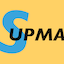
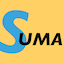
rename to SUMA

Changed region(s): [[0.125, 0.4375, 1.0, 0.7188]]

diff --git a/public/app.js b/public/app.js
@@ -6,7 +6,7 @@ async function docReady() {
 }
 
 async function getCategory(id) {
-  const response = await fetch("/supma/get/" + parseInt(id));
+  const response = await fetch("/suma/get/" + parseInt(id));
 
   if (response.status === 200) {
     const data = await response.json();
@@ -23,7 +23,7 @@ async function getCategory(id) {
 }
 
 async function updateCategoryList() {
-  const response = await fetch("/supma/list");
+  const response = await fetch("/suma/list");
   if (response.status === 200) {
     const data = await response.json();
     document.getElementById('category_list').outerHTML = data.html;
@@ -37,7 +37,7 @@ async function updateProductList(products) {
   const prodlist = document.getElementById("prodlist");
   prodlist.innerHTML = "";
   for (let product of products) {
-    const response = await fetch("/supma/head/" + product.id);
+    const response = await fetch("/suma/head/" + product.id);
 
     if (response.status === 200) {
       const data = await response.json();
@@ -55,7 +55,7 @@ async function toggleDetails(id) {
   if (details) {
     prod.removeChild(details);
   } else {
-    const url = "/supma/details/" + id;
+    const url = "/suma/details/" + id;
     const response = await fetch(url);
 
     if (response.status === 200) {
@@ -84,7 +84,7 @@ function toggleEdit(id) {
 async function renameCategory() {
   const catName = document.getElementById("edit_category_name").value;
   if (catName && catName.trim().length != 0) {
-    const response = await fetch("/supma/cat/" + encodeURIComponent(catName.trim()) + "/" + document.getElementById('category_id').value);
+    const response = await fetch("/suma/cat/" + encodeURIComponent(catName.trim()) + "/" + document.getElementById('category_id').value);
 
     if (response.status === 200) {
       const data = await response.json();
@@ -103,7 +103,7 @@ async function renameCategory() {
 async function createCategory() {
   const catName = document.getElementById("new_category_name").value;
   if (catName && catName.trim().length != 0) {
-    const response = await fetch("/supma/cat/" + encodeURIComponent(catName.trim()));
+    const response = await fetch("/suma/cat/" + encodeURIComponent(catName.trim()));
 
     if (response.status === 200) {
       const data = await response.json();
@@ -122,7 +122,7 @@ async function createCategory() {
 async function deleteCategory() {
   if (!document.getElementsByClassName('prod')[0]) {
     const id = document.getElementById('category_id').value;
-    const response = await fetch("/supma/cat/del/" + id);
+    const response = await fetch("/suma/cat/del/" + id);
 
     if (response.status === 200) {
       const data = await response.json();
@@ -143,7 +143,7 @@ async function deleteCategory() {
 }
 
 async function toggleCategoryPrio() {
-  const response = await fetch("/supma/cat/star/" + document.getElementById('category_id').value);
+  const response = await fetch("/suma/cat/star/" + document.getElementById('category_id').value);
 
   if (response.status === 200) {
     const data = await response.json();
@@ -161,7 +161,7 @@ async function toggleCategoryPrio() {
 async function renameProduct(id) {
   const prodName = document.getElementById("edit_product_name").value;
   if (prodName && prodName.trim().length != 0) {
-    const response = await fetch("/supma/pro/" + document.getElementById("category_id").value + "/" + encodeURIComponent(prodName.trim()) + "/" + id);
+    const response = await fetch("/suma/pro/" + document.getElementById("category_id").value + "/" + encodeURIComponent(prodName.trim()) + "/" + id);
 
     if (response.status === 200) {
       const data = await response.json();
@@ -178,7 +178,7 @@ async function renameProduct(id) {
 async function createProduct() {
   const prodName = document.getElementById("new_product_name").value;
   if (prodName && prodName.trim().length !== 0) {
-    const response = await fetch("/supma/pro/" + document.getElementById("category_id").value + "/" + encodeURIComponent(prodName.trim()));
+    const response = await fetch("/suma/pro/" + document.getElementById("category_id").value + "/" + encodeURIComponent(prodName.trim()));
 
     if (response.status === 200) {
       const data = await response.json();
@@ -197,7 +197,7 @@ async function createProduct() {
 async function deleteProduct(id) {
   const prodName = document.getElementById("product_name" + id).innerHTML;
   if (confirm('"' + prodName + '" löschen?')) {
-    const response = await fetch("/supma/pro/del/" + id);
+    const response = await fetch("/suma/pro/del/" + id);
 
     if (response.status === 200) {
       const prodlist = document.getElementById("prodlist");
@@ -232,7 +232,7 @@ async function updateEntry(id, action) {
   }
   if (action === "sub") count *= -1;
 
-  const response = await fetch("/supma/upd/", {
+  const response = await fetch("/suma/upd/", {
     method: "POST",
     headers: { "Content-Type": "application/json" },
     body: JSON.stringify({ "id": id, "year": year, "month": month, "count": count })

diff --git a/suma/model.js b/suma/model.js
@@ -3,17 +3,17 @@ import { DatabaseSync } from 'node:sqlite';
 import fs from 'fs-extra';
 import { logger } from '../log.js'
 
-const SUPMA_DB = process.env.SUPMA_DB;
+const SUMA_DB = process.env.SUMA_DB;
 let database;
 
-fs.pathExists(SUPMA_DB, (err, exists) => {
-  database = new DatabaseSync(SUPMA_DB, { open: true });
+fs.pathExists(SUMA_DB, (err, exists) => {
+  database = new DatabaseSync(SUMA_DB, { open: true });
   if (exists) {
     if (!database) {
-      logger.info('Could not connect to SUPMA database at "' + SUPMA_DB + '".');
+      logger.info('Could not connect to SUMA database at "' + SUMA_DB + '".');
       process.exit(1);
     } else {
-      logger.info('Connected to SUPMA database at "' + SUPMA_DB + '".');
+      logger.info('Connected to SUMA database at "' + SUMA_DB + '".');
     }
   } else {
     database.exec(`CREATE TABLE IF NOT EXISTS category (
@@ -44,25 +44,25 @@ fs.pathExists(SUPMA_DB, (err, exists) => {
     moddate    INTEGER     DEFAULT (strftime('%s') ) 
 );
 `); */
-    logger.info('A new SUPMA database was successfully created and opened at "' + SUPMA_DB + '".'); 
+    logger.info('A new SUMA database was successfully created and opened at "' + SUMA_DB + '".'); 
   }
 })
 
 export function connectDb() {  // open database 
   try {
     database.open();
-    return "SUPMA connectDb: DB opened";
+    return "SUMA connectDb: DB opened";
   } catch (error) {
-    return "SUPMA connectDb: " + error;
+    return "SUMA connectDb: " + error;
   }
 }
 
 export function unconnectDb() {  // close database 
   try {
     database.close();
-    return ("SUPMA unconnectDb: DB closed", 1);
+    return ("SUMA unconnectDb: DB closed", 1);
   } catch (error) {
-    return "SUPMA unconnectDb: " + error;
+    return "SUMA unconnectDb: " + error;
   }
 }
 
@@ -83,7 +83,7 @@ export function getCategory(categoryId) {
   const categories = allCategories();
 
   if (categories.length === 0) {
-    const result = createCategory('SUPMA');
+    const result = createCategory('SUMA');
     result.products = [];
     return result;
   }
@@ -211,7 +211,7 @@ export function evalProduct(item) {
     const oldEntryState = entry.state;
     entry.state = evalEntry(entry);
     if ((entry.state !== oldEntryState) && entry.state !== "green") {
-      pushover('SUPMA für ' + item.sum + ' Einheit(en) des Produkts "' + item.name + "' im Monat " + entry.year + "/" + entry.month + " überschritten!",
+      pushover('SUMA für ' + item.sum + ' Einheit(en) des Produkts "' + item.name + "' im Monat " + entry.year + "/" + entry.month + " überschritten!",
         "Warnung", 0, "pushover");
     }
     anyEntryChanged = anyEntryChanged || (entry.state !== oldEntryState);

diff --git a/suma/controller.js b/suma/controller.js
@@ -244,7 +244,7 @@ export function evalAction(request, response) {
     for (let item of data) {
       (item.entry_list) && (evalProduct(item)) && changeCount++;
     }
-    const msg = "SUPMA: " + data.length + " Produkte wurden überprüft. " +
+    const msg = "SUMA: " + data.length + " Produkte wurden überprüft. " +
       ((changeCount > 1) ? (changeCount + " Produkte haben") : (((changeCount === 1) ? "Ein" : "Kein") + " Produkt hat")) +
       " einen neuen Status erhalten.";
     logger.info(msg);
@@ -252,7 +252,7 @@ export function evalAction(request, response) {
     response.json({ state: true, msg: msg });
   }
   catch (error) {
-    const msg = "SUPMA: Interner Fehler in 'evalAction': " + error.message;
+    const msg = "SUMA: Interner Fehler in 'evalAction': " + error.message;
     logger.error(msg);
     logger.debug(getSystemErrorMap.stack);
     push.error(msg);
@@ -282,7 +282,7 @@ export async function healthAction(request, response) {
 }
 
 function errorHandler(error, actionName, response) {
-  const message = "SUPMA: Interner Fehler in '" + actionName + "': " + error.message;
+  const message = "SUMA: Interner Fehler in '" + actionName + "': " + error.message;
   logger.error(message);
   logger.debug(error.stack);
   if (response) {

diff --git a/index.js b/index.js
@@ -1,7 +1,7 @@
 import express from 'express';
 import { dirname } from 'path';
 import { fileURLToPath } from 'url';
-import { router as supmaRouter } from './supma/index.js';
+import { router as sumaRouter } from './suma/index.js';
 import { logger } from './log.js'
 
 
@@ -13,9 +13,9 @@ app.use(express.static(dirname(fileURLToPath(import.meta.url)) + '/public'));
 
 app.use(express.urlencoded({ extended: false }));
 
-app.use('/supma', supmaRouter);
+app.use('/suma', sumaRouter);
 
-app.get('/', (request, response) => response.redirect('/supma'));
+app.get('/', (request, response) => response.redirect('/suma'));
 
 app.listen(process.env.PORT, () => {
   logger.info('Server is listening to Port ' + process.env.PORT);

diff --git a/public/style.css b/public/style.css
@@ -119,19 +119,9 @@ button_breit {
   color: white;
 }
 
-.orange:hover {
-  color: #FF8800;
-  background-color: darkgrey;
-}
-
 .yellow {
   background-color: #FFD342;
   color: black;
-}
-
-.yellow:hover {
-  color: #FFD342;
-  background-color: darkgrey;
 }
 
 .darkgrey {
@@ -139,29 +129,14 @@ button_breit {
   color: black;
 }
 
-.darkgrey:hover {
-  color: darkgrey;
-  background-color: lightgrey;
-}
-
 .lightgrey {
   background-color: lightgrey;
   color: black;
 }
 
-.lightgrey:hover {
-  color: lightgrey;
-  background-color: darkgrey;
-}
-
 .white {
   background-color: white;
   color: black;
-}
-
-.white:hover {
-  color: white;
-  background-color: darkgrey;
 }
 
 select {

diff --git a/healthcheck.js b/healthcheck.js
@@ -1,7 +1,7 @@
 
 import { request } from 'node:http';
 
-const options = { hostname: 'localhost', port: process.env.PORT, path: '/supma/health', method: 'GET' };
+const options = { hostname: 'localhost', port: process.env.PORT, path: '/suma/health', method: 'GET' };
 
 request(options, (res) => {
   let body = '';
